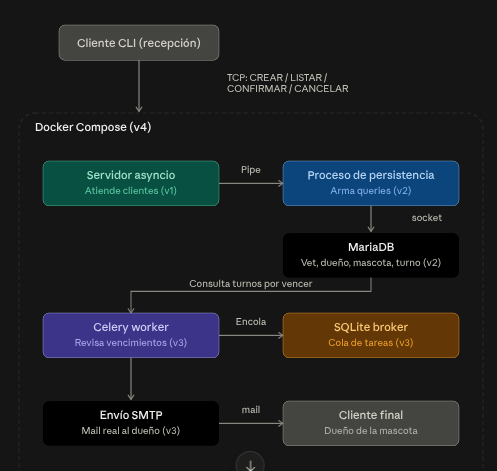
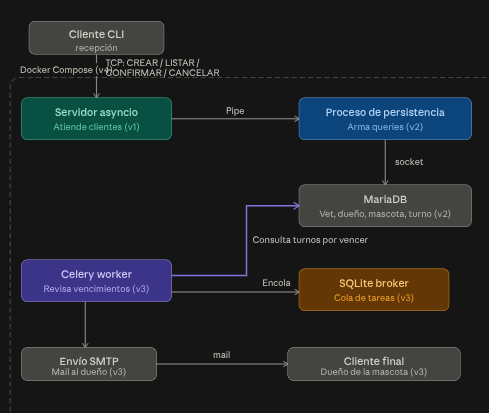
v4: Dockerizacion

diff --git a/tasks.py b/tasks.py
@@ -34,10 +34,8 @@ DB_NAME = os.environ.get("TURNOS_DB_NAME", "turnos_vet")
 BROKER_URL = os.environ.get("TURNOS_CELERY_BROKER_URL", "sqla+sqlite:///celery_broker.db")
 BACKEND_URL = os.environ.get("TURNOS_CELERY_BACKEND_URL", "db+sqlite:///celery_results.db")
 
-# Notificacion por mail. No tenemos el email del dueno en la BD (v2 solo
-# guarda su nombre), asi que todo recordatorio va a una casilla fija de
-# prueba y el nombre del dueno queda en el asunto para identificar el turno.
-EMAIL_DESTINO = os.environ.get("TURNOS_EMAIL_DESTINO", "dueno@ejemplo.com")
+# Notificacion por mail al dueno real del turno (columna duenos.email,
+# agregada en persistencia.py).
 SMTP_HOST = os.environ.get("TURNOS_SMTP_HOST", "localhost")
 SMTP_PORT = int(os.environ.get("TURNOS_SMTP_PORT", "25"))
 SMTP_USER = os.environ.get("TURNOS_SMTP_USER", "")
@@ -45,7 +43,9 @@ SMTP_PASSWORD = os.environ.get("TURNOS_SMTP_PASSWORD", "")
 SMTP_FROM = os.environ.get("TURNOS_SMTP_FROM", "turnos@veterinaria.local")
 
 VENTANA_AVISO_HORAS = 24
-INTERVALO_REVISION_SEGUNDOS = 60
+# INTERVALO_REVISION_SEGUNDOS = 60
+# INTERVALO_REVISION_SEGUNDOS = 60
+INTERVALO_REVISION_SEGUNDOS = 10   
 
 app = Celery("tasks", broker=BROKER_URL, backend=BACKEND_URL)
 app.conf.beat_schedule = {
@@ -99,7 +99,7 @@ def revisar_turnos_proximos():
             )
             cursor.execute(
                 """
-                SELECT t.id_turno, v.nombre, d.nombre, m.nombre, t.fecha, t.hora
+                SELECT t.id_turno, v.nombre, d.nombre, m.nombre, t.fecha, t.hora, d.email
                 FROM turnos t
                 JOIN veterinarios v ON v.id_veterinario = t.id_veterinario
                 JOIN mascotas m ON m.id_mascota = t.id_mascota
@@ -112,9 +112,9 @@ def revisar_turnos_proximos():
             )
             turnos = cursor.fetchall()
 
-            for id_turno, vet, dueno, mascota, fecha, hora in turnos:
+            for id_turno, vet, dueno, mascota, fecha, hora, email in turnos:
                 enviar_recordatorio.delay(
-                    id_turno, vet, dueno, mascota, fecha.isoformat(), _formatear_hora(hora)
+                    id_turno, vet, dueno, mascota, fecha.isoformat(), _formatear_hora(hora), email
                 )
                 cursor.execute(
                     "UPDATE turnos SET recordatorio_enviado = 1 WHERE id_turno = %s",
@@ -125,18 +125,19 @@ def revisar_turnos_proximos():
 
 
 @app.task
-def enviar_recordatorio(id_turno, vet, dueno, mascota, fecha, hora):
+def enviar_recordatorio(id_turno, vet, dueno, mascota, fecha, hora, email):
     """Manda el mail de recordatorio para un turno puntual via SMTP."""
     mensaje = EmailMessage()
     mensaje["Subject"] = f"Recordatorio de turno para {dueno}"
     mensaje["From"] = SMTP_FROM
-    mensaje["To"] = EMAIL_DESTINO
+    mensaje["To"] = email
     mensaje.set_content(
         f"Turno #{id_turno}\n"
         f"Dueno: {dueno}\n"
         f"Mascota: {mascota}\n"
         f"Veterinario: {vet}\n"
         f"Fecha y hora: {fecha} {hora}\n"
+        "Favor de comunicarse para confirmar asistencia o cancelar su turno para liberar el lugar. Muchas gracias"
     )
 
     with smtplib.SMTP(SMTP_HOST, SMTP_PORT) as smtp:

diff --git a/server/persistencia.py b/server/persistencia.py
@@ -29,6 +29,9 @@ SENTENCIAS_ESQUEMA = [
     )
     """,
     """
+    ALTER TABLE duenos ADD COLUMN IF NOT EXISTS email VARCHAR(120)
+    """,
+    """
     CREATE TABLE IF NOT EXISTS mascotas (
         id_mascota INT AUTO_INCREMENT PRIMARY KEY,
         id_dueno INT NOT NULL,
@@ -70,7 +73,7 @@ def conectar(args):
     return conexion
 
 
-def _obtener_o_crear(cursor, tabla, col_id, filtros):
+def _obtener_o_crear(cursor, tabla, col_id, filtros, extra=None):
     columnas = list(filtros.keys())
     valores = list(filtros.values())
     condicion = " AND ".join(f"{columna}=%s" for columna in columnas)
@@ -79,9 +82,12 @@ def _obtener_o_crear(cursor, tabla, col_id, filtros):
     if fila:
         return fila[0]
 
-    columnas_insert = ", ".join(columnas)
-    placeholders = ", ".join(["%s"] * len(columnas))
-    cursor.execute(f"INSERT INTO {tabla} ({columnas_insert}) VALUES ({placeholders})", valores)
+    extra = extra or {}
+    columnas_insert = columnas + list(extra.keys())
+    valores_insert = valores + list(extra.values())
+    columnas_str = ", ".join(columnas_insert)
+    placeholders = ", ".join(["%s"] * len(columnas_insert))
+    cursor.execute(f"INSERT INTO {tabla} ({columnas_str}) VALUES ({placeholders})", valores_insert)
     return cursor.lastrowid
 
 
@@ -95,9 +101,9 @@ def _formatear_hora(valor):
 
 
 def manejar_crear_turno(cursor, partes):
-    if len(partes) != 6:
-        return "ERROR|formato invalido, se esperan 5 argumentos"
-    _, vet, dueno, mascota, fecha, hora = partes
+    if len(partes) != 7:
+        return "ERROR|formato invalido, se esperan 6 argumentos"
+    _, vet, dueno, email, mascota, fecha, hora = partes
 
     try:
         fecha_valor = datetime.date.fromisoformat(fecha)
@@ -105,7 +111,7 @@ def manejar_crear_turno(cursor, partes):
     except ValueError:
         return "ERROR|formato invalido, use fecha AAAA-MM-DD y hora HH:MM"
 
-    id_dueno = _obtener_o_crear(cursor, "duenos", "id_dueno", {"nombre": dueno})
+    id_dueno = _obtener_o_crear(cursor, "duenos", "id_dueno", {"nombre": dueno}, extra={"email": email})
     id_mascota = _obtener_o_crear(
         cursor, "mascotas", "id_mascota", {"id_dueno": id_dueno, "nombre": mascota}
     )

diff --git a/server/server.py b/server/server.py
@@ -8,6 +8,7 @@ red, pero nunca toca SQL.
 """
 import argparse
 import asyncio
+import socket
 import sys
 from contextlib import AsyncExitStack
 from pathlib import Path
@@ -55,7 +56,7 @@ async def detener_persistencia():
 
 
 async def enviar_a_persistencia(comando):
-    async with lock_persistencia:
+    async def _intercambio():
         proceso_persistencia.stdin.write((comando + "\n").encode())
         await proceso_persistencia.stdin.drain()
 
@@ -74,13 +75,21 @@ async def enviar_a_persistencia(comando):
 
         return respuesta
 
+    async with lock_persistencia:
+        try:
+            return await asyncio.wait_for(_intercambio(), timeout=5)
+        except asyncio.TimeoutError:
+            return "ERROR|timeout esperando al proceso de persistencia"
+
 
 async def manejar_crear(partes):
-    if len(partes) != 6:
-        return "ERROR|formato invalido, se esperan 5 argumentos"
+    if len(partes) != 7:
+        return "ERROR|formato invalido, se esperan 6 argumentos"
 
-    _, veterinario, dueno, mascota, fecha, hora = partes
-    return await enviar_a_persistencia(f"DB_CREAR_TURNO|{veterinario}|{dueno}|{mascota}|{fecha}|{hora}")
+    _, veterinario, dueno, email, mascota, fecha, hora = partes
+    return await enviar_a_persistencia(
+        f"DB_CREAR_TURNO|{veterinario}|{dueno}|{email}|{mascota}|{fecha}|{hora}"
+    )
 
 
 async def manejar_listar():
@@ -166,10 +175,20 @@ async def main():
 
     await iniciar_persistencia(args)
 
-    familias = [
-        ("IPv4", "0.0.0.0"),
-        ("IPv6", "::"),
+    familias_candidatas = [
+        ("IPv4", socket.AF_INET, "0.0.0.0"),
+        ("IPv6", socket.AF_INET6, "::"),
     ]
+    familias = []
+    for nombre, familia, host in familias_candidatas:
+        try:
+            socket.getaddrinfo(
+                None, args.puerto, family=familia, type=socket.SOCK_STREAM, flags=socket.AI_PASSIVE
+            )
+            familias.append((nombre, host))
+        except socket.gaierror as e:
+            print(f"{nombre} no disponible en este sistema, se omite: {e}")
+
     servidores = []
     for nombre, host in familias:
         try:

diff --git a/client/client.py b/client/client.py
@@ -22,6 +22,7 @@ def crear_parser_repl():
     p_crear = subparsers.add_parser("crear", help="Crear un turno nuevo")
     p_crear.add_argument("--vet", required=True)
     p_crear.add_argument("--dueno", required=True)
+    p_crear.add_argument("--email", required=True)
     p_crear.add_argument("--mascota", required=True)
     p_crear.add_argument("--fecha", required=True)
     p_crear.add_argument("--hora", required=True)
@@ -41,7 +42,7 @@ def crear_parser_repl():
 
 def construir_mensaje(args):
     if args.comando == "crear":
-        return f"CREAR|{args.vet}|{args.dueno}|{args.mascota}|{args.fecha}|{args.hora}"
+        return f"CREAR|{args.vet}|{args.dueno}|{args.email}|{args.mascota}|{args.fecha}|{args.hora}"
     if args.comando == "listar":
         return "LISTAR"
     if args.comando == "cancelar":
@@ -130,7 +131,7 @@ if __name__ == "__main__":
     asyncio.run(main())
 
 
-# crear --vet "Dr. Gomez" --dueno "Juan Perez" --mascota "Firulais" --fecha 2026-07-15 --hora 10:00
+# crear --vet "Dr. Gomez" --dueno "Juan Perez" --email "juan@ejemplo.com" --mascota "Firulais" --fecha 2026-07-15 --hora 10:00
 # listar
 # confirmar 1
 # listar

diff --git a/README.md b/README.md
@@ -52,6 +52,7 @@ persistencia busca o crea el registro correspondiente.
 ## Funciones clave por capa
 
 **Servidor** (`server/server.py`)
+
 - Dos `asyncio.start_server` en paralelo (IPv4 + IPv6) vía `asyncio.gather`.
 - Lanza y supervisa el subproceso de persistencia
   (`asyncio.create_subprocess_exec`).
@@ -61,11 +62,13 @@ persistencia busca o crea el registro correspondiente.
   y devuelve la respuesta casi sin tocar.
 
 **Persistencia** (`server/persistencia.py`)
+
 - Loop síncrono sobre stdin/stdout, único proceso que arma SQL.
 - Conexión a MariaDB por socket con PyMySQL (`autocommit=True`).
 - Crea el esquema (`CREATE TABLE IF NOT EXISTS`) al arrancar, sin setup manual.
 
 **Cliente** (`client/client.py`)
+
 - Conexión persistente (`asyncio.open_connection`), REPL con múltiples
   comandos por sesión.
 - Parseo de subcomandos con `ArgumentParser` que no mata el proceso ante
@@ -75,13 +78,13 @@ persistencia busca o crea el registro correspondiente.
 
 Texto plano, un comando por línea, `COMANDO|arg1|arg2|...`.
 
-| Comando | Respuesta |
-|---|---|
-| `CREAR\|vet\|dueño\|mascota\|fecha\|hora` | `OK\|<id>` |
-| `LISTAR` | `OK\|LISTAR\|<n>` + n líneas |
-| `CONFIRMAR\|<id>` | `OK` |
-| `CANCELAR\|<id>` | `OK` |
-| `SALIR` | cierra la conexión |
+| Comando                                   | Respuesta                    |
+| ----------------------------------------- | ---------------------------- |
+| `CREAR\|vet\|dueño\|mascota\|fecha\|hora` | `OK\|<id>`                   |
+| `LISTAR`                                  | `OK\|LISTAR\|<n>` + n líneas |
+| `CONFIRMAR\|<id>`                         | `OK`                         |
+| `CANCELAR\|<id>`                          | `OK`                         |
+| `SALIR`                                   | cierra la conexión           |
 
 Errores: `ERROR|<motivo legible>` en cualquier comando.
 
@@ -91,7 +94,6 @@ Errores: `ERROR|<motivo legible>` en cualquier comando.
 - ✅ **v2** — MariaDB, modelado relacional, proceso de persistencia por pipe.
 - ⏳ **v3** — Celery + SQLite como broker, alertas de turnos por vencer.
 - ⏳ **v4** — Docker Compose (servidor + MariaDB + broker).
-- ⏳ **v5+** — historial clínico, roles, features adicionales.
 
 ## Cómo correrlo
 
